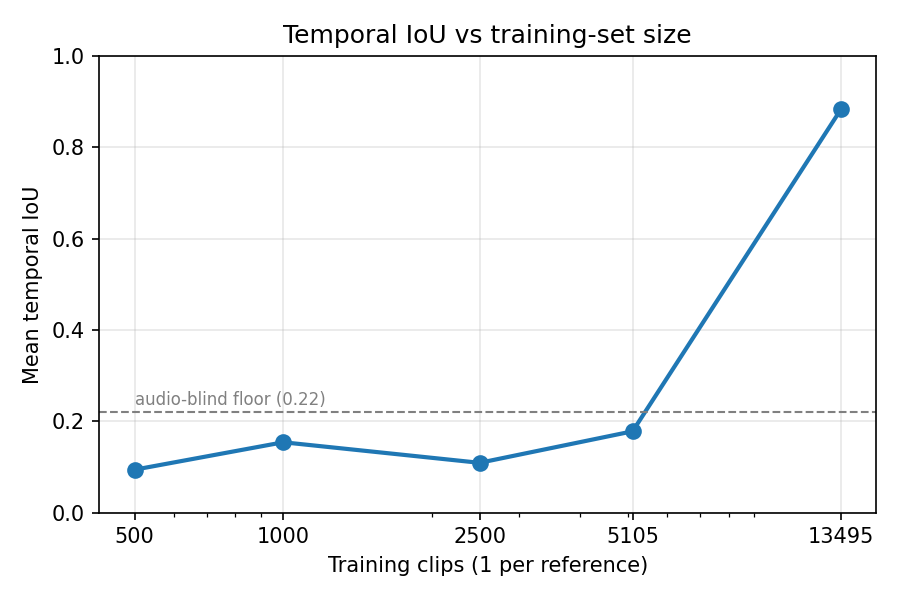
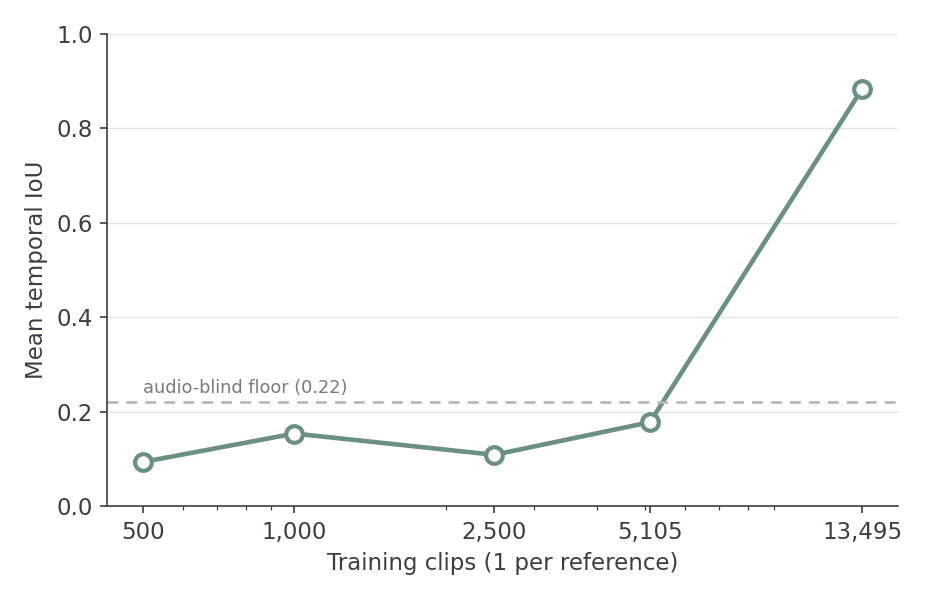
style: relaxed-palette data-size figures

Changed region(s): [[0.0, 0.03, 0.9644, 0.96]]

diff --git a/scripts/analysis/plot_datasize_sweep.py b/scripts/analysis/plot_datasize_sweep.py
@@ -1,9 +1,23 @@
-"""Three thesis figures for the temporal SFT data-size sweep."""
+"""Three thesis figures for the temporal SFT data-size sweep (relaxed palette)."""
 import csv, json
 from pathlib import Path
 import matplotlib
 matplotlib.use("Agg")
 import matplotlib.pyplot as plt
+
+# Relaxed, muted palette (no pure red/blue)
+SAGE   = "#6b9080"   # IoU
+CLAY   = "#cb997e"   # MSE
+INK    = "#3d3d46"   # text/axes
+GRID   = "#b7b7b7"
+LINE5  = ["#6b9080", "#a4ac86", "#cb997e", "#8d9db6", "#b5838d"]
+
+plt.rcParams.update({
+    "font.size": 11, "axes.edgecolor": INK, "axes.labelcolor": INK,
+    "xtick.color": INK, "ytick.color": INK, "text.color": INK,
+    "axes.spines.top": False, "axes.spines.right": False,
+    "axes.titlesize": 12, "figure.dpi": 150,
+})
 
 base = Path("/work3/s234817/automatic-speech-assessment/results/analysis/datasize_sweep")
 out = base / "figures"; out.mkdir(exist_ok=True)
@@ -11,42 +25,49 @@ rows = list(csv.DictReader(open(base/"metrics.csv")))
 sizes = [int(r["size"]) for r in rows]
 iou   = [float(r["iou_mean"]) for r in rows]
 mse   = [float(r["mos_mse"]) for r in rows]
-uniq  = [int(r["n_unique"]) for r in rows]
-AUDIO_BLIND = 0.22  # best-constant-interval audio-blind baseline
+AUDIO_BLIND = 0.22
+labels = [f"{s:,}" for s in sizes]
+
+def label_bars(ax, bars, vals, fmt):
+    for b, v in zip(bars, vals):
+        ax.text(b.get_x()+b.get_width()/2, v, fmt.format(v), ha="center",
+                va="bottom", fontsize=9, color=INK)
 
 # Fig 1: size vs IoU
-plt.figure(figsize=(6,4))
-plt.plot(sizes, iou, "o-", color="#1f77b4", lw=2, ms=7)
-plt.axhline(AUDIO_BLIND, ls="--", color="gray", lw=1)
-plt.text(sizes[0], AUDIO_BLIND+0.015, "audio-blind floor (0.22)", color="gray", fontsize=8)
-plt.xscale("log"); plt.xticks(sizes, [str(s) for s in sizes])
-plt.xlabel("Training clips (1 per reference)"); plt.ylabel("Mean temporal IoU")
-plt.title("Temporal IoU vs training-set size")
-plt.ylim(0,1); plt.grid(alpha=0.3); plt.tight_layout()
-plt.savefig(out/"datasize_iou_curve.png", dpi=150); plt.close()
+fig, ax = plt.subplots(figsize=(6.2,4))
+ax.plot(sizes, iou, "o-", color=SAGE, lw=2.2, ms=8, mfc="white", mec=SAGE, mew=2)
+ax.axhline(AUDIO_BLIND, ls=(0,(4,3)), color=GRID, lw=1.3)
+ax.text(sizes[0], AUDIO_BLIND+0.02, "audio-blind floor (0.22)", color="#7a7a7a", fontsize=8.5)
+ax.set_xscale("log"); ax.set_xticks(sizes); ax.set_xticklabels(labels)
+ax.set_xlabel("Training clips (1 per reference)"); ax.set_ylabel("Mean temporal IoU")
+ax.set_ylim(0,1); ax.grid(axis="y", color=GRID, alpha=0.35, lw=0.7)
+fig.tight_layout(); fig.savefig(out/"datasize_iou_curve.png"); plt.close(fig)
 
-# Fig 2: overlaid training-loss curves
+# Fig 2: training-loss curves
 losses = json.load(open(base/"loss_series.json"))
-plt.figure(figsize=(6,4))
-cmap = plt.cm.viridis
-keys = sorted(losses, key=lambda k:int(k))
-for i,k in enumerate(keys):
-    series = losses[k]
-    if not series: continue
-    ep = [p[0] for p in series]; ls = [p[1] for p in series]
-    plt.plot(ep, ls, color=cmap(i/max(1,len(keys)-1)), lw=1.8, label=f"{k} clips")
-plt.xlabel("Epoch"); plt.ylabel("Training loss")
-plt.title("Training loss by data-set size")
-plt.legend(fontsize=8); plt.grid(alpha=0.3); plt.tight_layout()
-plt.savefig(out/"datasize_loss_curves.png", dpi=150); plt.close()
+fig, ax = plt.subplots(figsize=(6.2,4))
+for i,k in enumerate(sorted(losses, key=lambda k:int(k))):
+    s = losses[k]
+    if not s: continue
+    ax.plot([p[0] for p in s], [p[1] for p in s], color=LINE5[i%len(LINE5)],
+            lw=2, label=f"{int(k):,} clips")
+ax.set_xlabel("Epoch"); ax.set_ylabel("Training loss")
+ax.legend(fontsize=8.5, frameon=False); ax.grid(axis="y", color=GRID, alpha=0.35, lw=0.7)
+fig.tight_layout(); fig.savefig(out/"datasize_loss_curves.png"); plt.close(fig)
 
-# Fig 3: IoU + MOS-MSE barplots
-fig, ax = plt.subplots(1,2, figsize=(9,4))
-x = range(len(sizes)); labels=[str(s) for s in sizes]
-ax[0].bar(x, iou, color="#1f77b4"); ax[0].axhline(AUDIO_BLIND, ls="--", color="gray", lw=1)
-ax[0].set_xticks(x); ax[0].set_xticklabels(labels); ax[0].set_ylabel("Mean temporal IoU"); ax[0].set_title("IoU by data-set size"); ax[0].set_ylim(0,1); ax[0].grid(alpha=0.3, axis="y")
-ax[1].bar(x, mse, color="#d62728")
-ax[1].set_xticks(x); ax[1].set_xticklabels(labels); ax[1].set_ylabel("MOS MSE"); ax[1].set_title("MOS MSE by data-set size"); ax[1].grid(alpha=0.3, axis="y")
-for a in ax: a.set_xlabel("Training clips")
-plt.tight_layout(); plt.savefig(out/"datasize_iou_mse_bars.png", dpi=150); plt.close()
-print("figures written:", [p.name for p in out.glob("*.png")])
+# Fig 3 (Fig 4.4): IoU + MOS-MSE bars, side by side, relaxed colors
+fig, ax = plt.subplots(1,2, figsize=(9.5,4.2))
+x = range(len(sizes))
+b0 = ax[0].bar(x, iou, color=SAGE, width=0.68)
+ax[0].axhline(AUDIO_BLIND, ls=(0,(4,3)), color=GRID, lw=1.3)
+ax[0].text(len(sizes)-0.5, AUDIO_BLIND+0.015, "audio-blind 0.22", color="#7a7a7a", fontsize=8.5, ha="right")
+ax[0].set_ylabel("Mean temporal IoU"); ax[0].set_title("Localization (IoU)"); ax[0].set_ylim(0,1.0)
+label_bars(ax[0], b0, iou, "{:.3f}")
+b1 = ax[1].bar(x, mse, color=CLAY, width=0.68)
+ax[1].set_ylabel("MOS MSE"); ax[1].set_title("Rating (MOS MSE)"); ax[1].set_ylim(0, max(mse)*1.18)
+label_bars(ax[1], b1, mse, "{:.3f}")
+for a in ax:
+    a.set_xticks(list(x)); a.set_xticklabels(labels, rotation=0); a.set_xlabel("Training clips")
+    a.grid(axis="y", color=GRID, alpha=0.35, lw=0.7)
+fig.tight_layout(); fig.savefig(out/"datasize_iou_mse_bars.png"); plt.close(fig)
+print("figures regenerated with relaxed palette:", sorted(p.name for p in out.glob("*.png")))
